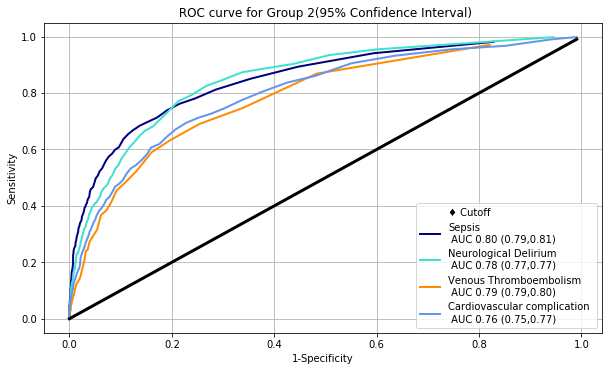
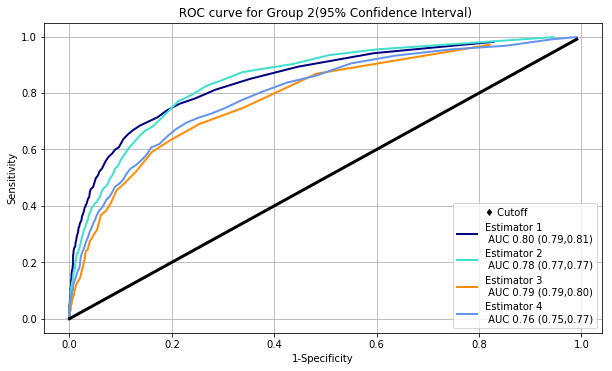
model performance

Changed region(s): [[0.683, 0.5337, 0.9624, 0.8895]]

diff --git a/posts/2018/06/Analysing Model Perfromance from ROC, and Recall and Precision curves/index.html b/posts/2018/06/Analysing Model Perfromance from ROC, and Recall and Precision curves/index.html
@@ -114,7 +114,7 @@ return(val)
 </pre></div>
 
 
-<p>The chart bellow illustrates the relationship between the different performance metrics ( prevalence is exluded) in an example<img alt=" PPV and NPV  relationship" src="/images/NPV-PPV-Accracy-Youden.png"></p>
+<p>The chart bellow illustrates the relationship between the different performance metrics ( prevalence is exluded) in an example of 4 estimators apllied on 4 -classes data<img alt=" PPV and NPV  relationship" src="/images/NPV-PPV-Accracy-Youden.png"></p>
 <h1>Calculation of performance metrics</h1>
 <p>Here is the python code for the calculation of  performance metrics </p>
 <div class="highlight"><pre><span></span>def calculate_metric<span class="p">(</span>outcome<span class="p">,</span> score<span class="p">)</span><span class="o">:</span>
@@ -264,10 +264,12 @@ def confidence_interval(panel):
 </pre></div>
 
 
-<h1>Plot</h1>
+<p>The chart bellow illustrates ROC and PR curves for 4 different estimators applied on the same data<img alt=" ROC" src="/images/ROC-PV1.png"><img alt=" PR" src="/images/ROC-PV2.png">
+The performances of the algorithms appear to be comparable in ROC space, however, in PR space we can see that Estimator 4 has a clear advantage over Estimator 3.</p>
+<h1>Assessing the Model</h1>
 <p>The chart bellow outlines the performance evaluation pipeline (except prevalence) in an example<img alt=" performance evaluation pipeline" src="/images/MLPipe.jpg"></p>
-<h1>The bias-variance trade-off</h1>
-<p>Bias and variance are inherent properties of estimators and we usually have to select learning algorithms and hyperparameters so that both bias and variance are as low as possible (see Bias-variance dilemma). Another way to reduce the variance of a model is to use more training data. However, you should only collect more training data if the true function is too complex to be approximated by an estimator with a lower variance.
+<h1>The bias-variance trade-off (Bias-variance dilemma)</h1>
+<p>Bias and variance are inherent properties of estimators and we usually have to select learning algorithms and hyperparameters so that both bias and variance are as low as possible. Another way to reduce the variance of a model is to use more training data. However, you should only collect more training data if the true function is too complex to be approximated by an estimator with a lower variance.
 <img alt=" bias-variance trade-off" src="/images/biasvariance.png"></p>
 <h1>Analyzing Model Variance and Bias</h1>
 <p>The two methods used here for analyzing how the model is performing with the data are Learning Curves and a Model Complexity plot.Learning curves give us an opportunity to diagnose bias and variance in supervised learning models. </p>
